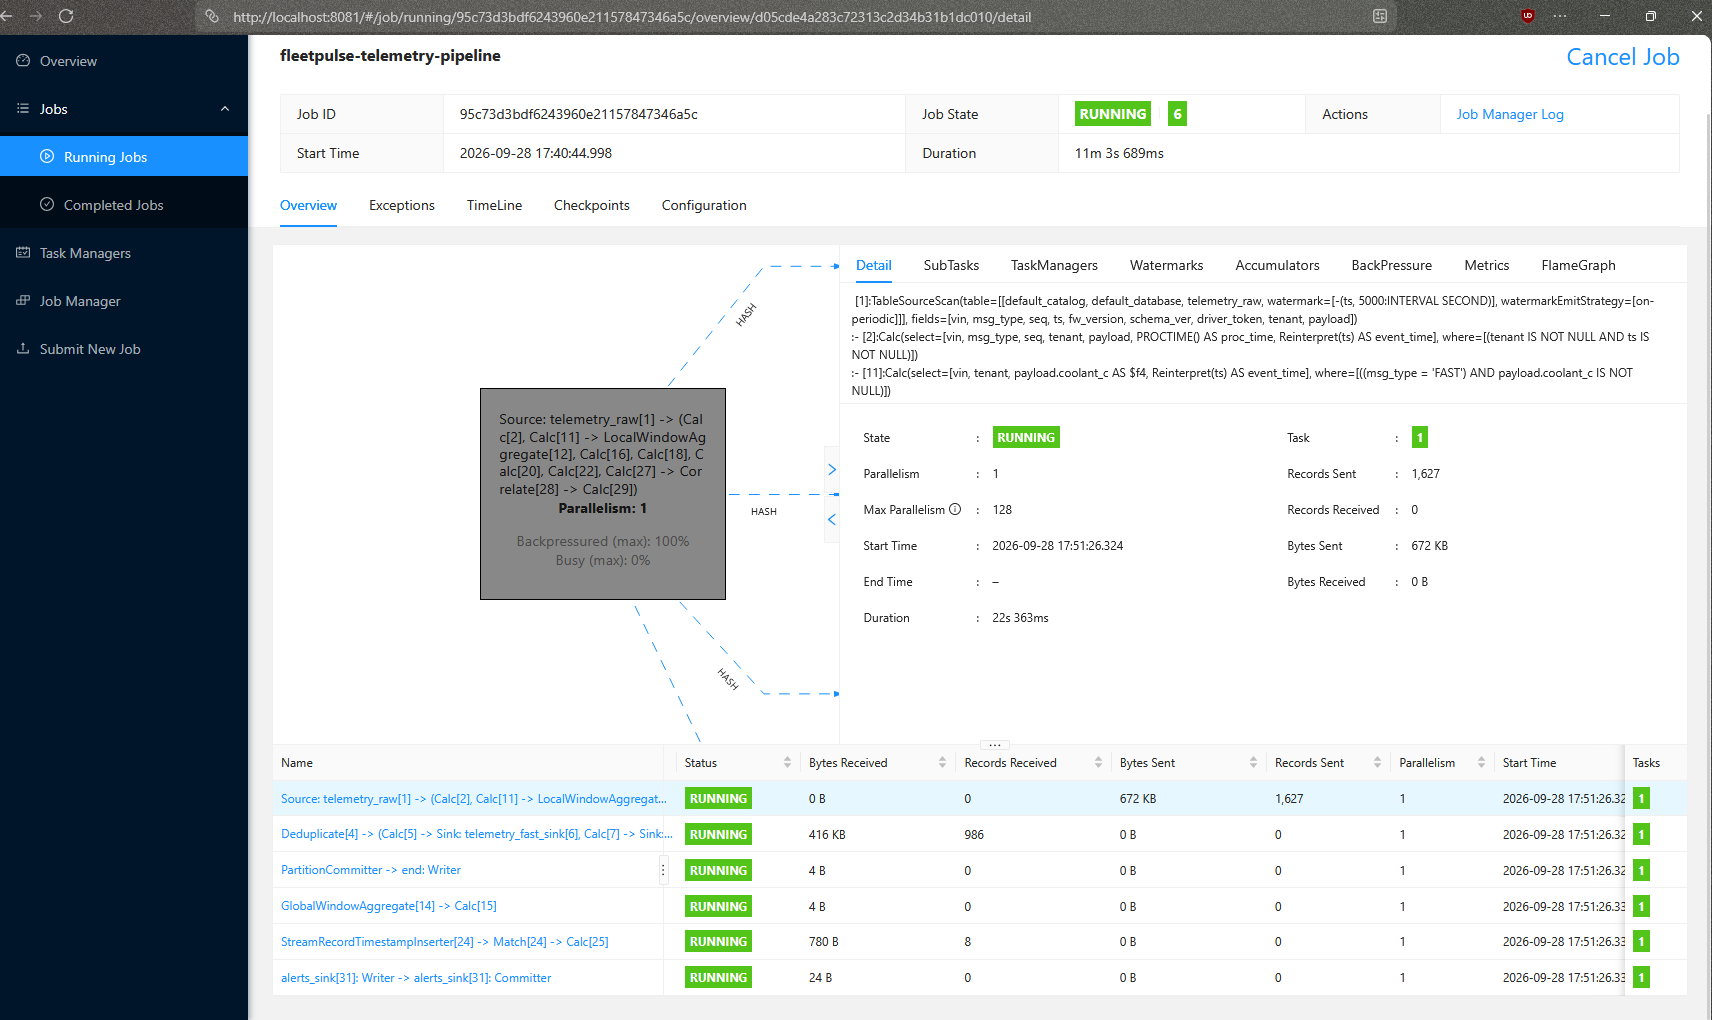
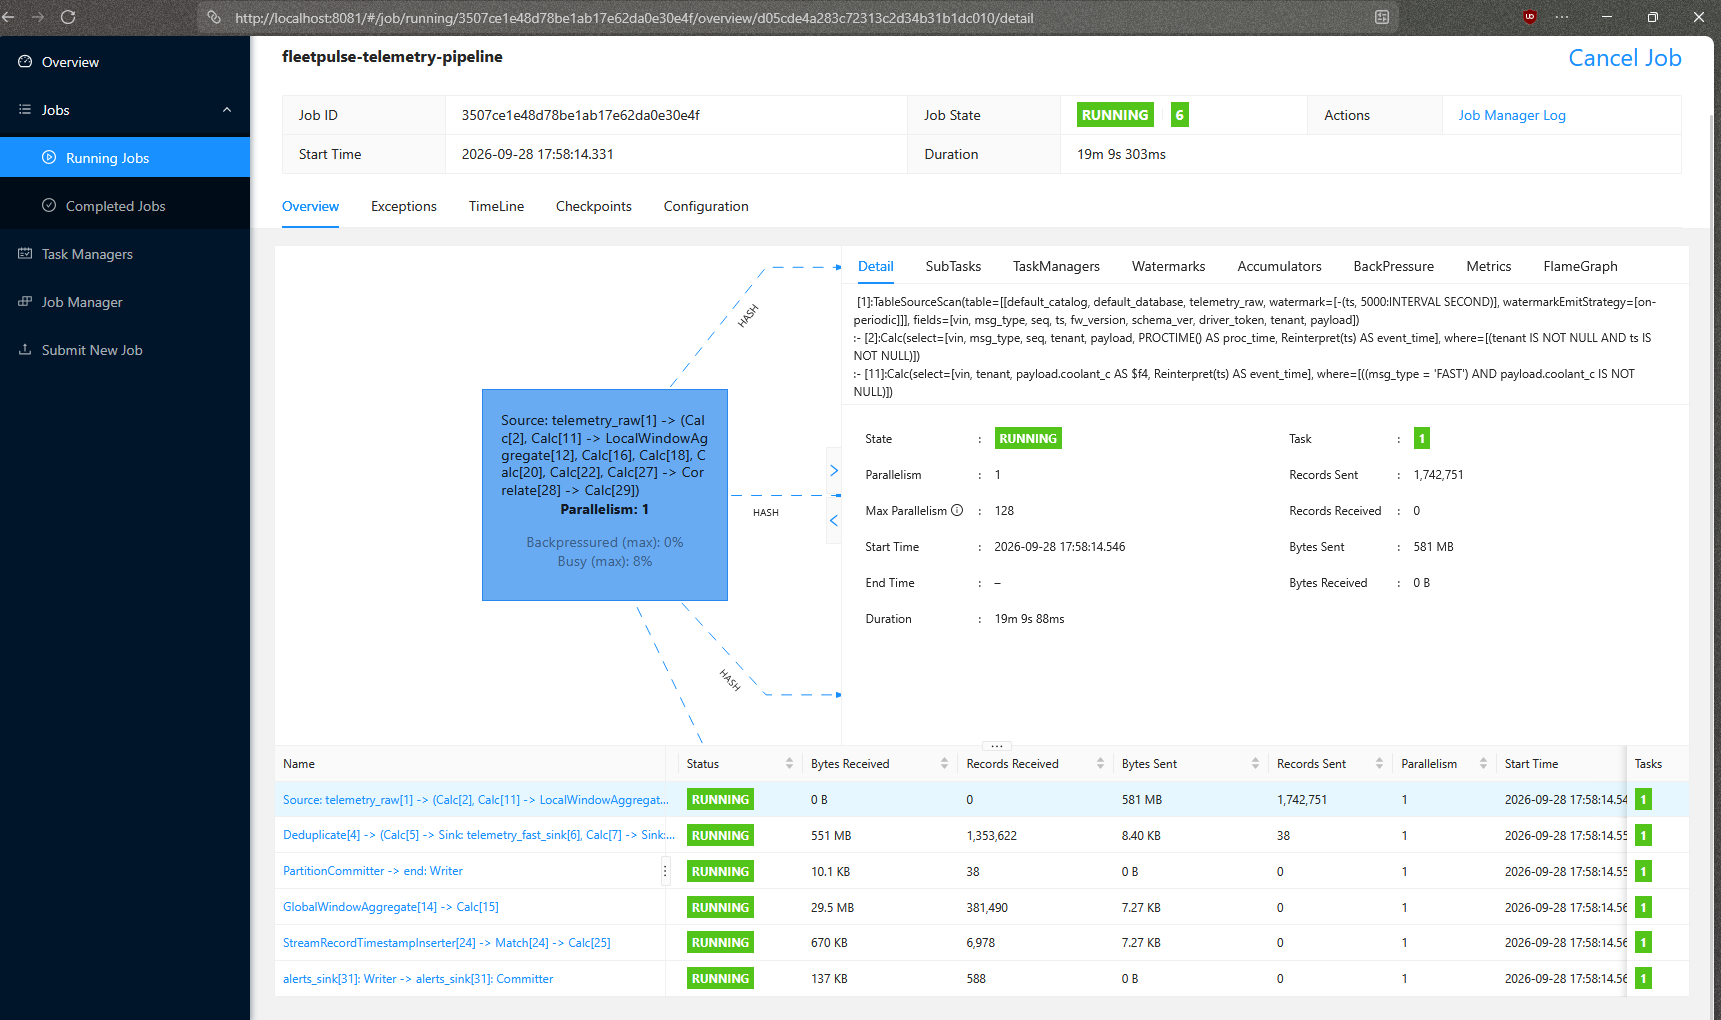
Replace evidence with clean running/checkpoints/self-healed screenshots
flink-job-running.png now shows the actual healthy steady state
(0% backpressure, 8% busy, 1.74M records) instead of the moment right
before the OOM. Added flink-checkpoints.png (39/39 completed) and
flink-job-self-healed.png, which documents a real transient event: one
task hit a checkpoint-ack RPC timeout under laptop resource
contention, and Flink's restart strategy recovered it automatically —
the checkpointing fix from the earlier OOM bug working as intended.

diff --git a/docs/evidence/stream/README.md b/docs/evidence/stream/README.md
@@ -6,9 +6,11 @@ Raw material for the solution document's stream-processing section (session 10).
 
 | File | Shows |
 |---|---|
-| `flink-job-graph.png` | Flink UI job graph of `fleetpulse-telemetry-pipeline`: one shared Kafka source fanning out (HASH) to the exact-dedup branch (→ Timescale `telemetry_fast`/`telemetry_health` JDBC sinks + the lake's `StreamingFileWriter` → `PartitionCommitter`), the cooling rule's two-phase HOP window (`LocalWindowAggregate` → `GlobalWindowAggregate`), and the misfire `MATCH_RECOGNIZE` (`Match`), all converging on `alerts_sink`; the stateless rules (lubrication, battery, MIL, brakes) forward straight to it. Taken while idle, hence 0% busy. |
-| `flink-job-running.png` | Same job under `make simulate RATE=2000` traffic, ~11 minutes in: RUNNING, 1,627+ records sent, sub-tasks all RUNNING. Also shows the Source box at **100% backpressured (max)** — this was the OOM in `flink-job-oom-restarting.png` about to happen (the TaskManager's 1 GB heap couldn't keep up and back-pressure was the visible symptom seconds before the crash), not a healthy steady state; see the note below. |
-| `flink-job-oom-restarting.png` | The job a few minutes later: `RESTARTING` (Flink's checkpoint-enabled default restart strategy trying to recover), the `Source` task in `FAILED`, everything else `CANCELED`. Kept as the record of the bug, not as "correct" evidence — see below. |
+| `flink-job-graph.png` | Job graph while idle: one shared Kafka source fanning out (HASH) to the exact-dedup branch (→ Timescale `telemetry_fast`/`telemetry_health` JDBC sinks + the lake's `StreamingFileWriter` → `PartitionCommitter`), the cooling rule's two-phase HOP window (`LocalWindowAggregate` → `GlobalWindowAggregate`), and the misfire `MATCH_RECOGNIZE` (`Match`), all converging on `alerts_sink`; the stateless rules (lubrication, battery, MIL, brakes) forward straight to it. 0% busy since nothing was flowing. |
+| `flink-job-running.png` | Same job, post-memory-fix, ~19 minutes into a `make simulate RATE=2000` run: RUNNING, 0% backpressured, 8% busy, 1,742,751 records sent — the healthy steady state the earlier OOM (below) never reached. |
+| `flink-checkpoints.png` | Checkpoints tab at the same point: 39/39 triggered checkpoints completed, 0 failed, 0 restored — no incident yet at this timestamp (one happened a few minutes later, see `flink-job-self-healed.png`). |
+| `flink-job-self-healed.png` | The same job ~5 minutes after that, shortly after one task hit a 10 s RPC timeout talking to the JobManager during a checkpoint (`AskTimeoutException`, most likely this laptop being loaded — Flink + Kafka + Postgres + Timescale + Mongo + Garage all running at once) and Flink auto-restored it from the last good checkpoint. All subtasks RUNNING again, counters reset to near-zero (their own "Start Time" jumped, the job's did not) — this is the checkpointing/restart fix from the OOM bug working exactly as intended, not a new problem. |
+| `flink-job-oom-restarting.png` | An earlier run, before the memory fix: `RESTARTING` forever, `Source` task `FAILED`, everything else `CANCELED` — the TaskManager had OOM'd and there was no TaskManager left to restart into. Kept as the record of that bug, not as "correct" evidence — see the fix below. |
 
 ## Measured results (2026-09-28, local laptop stack, parallelism 1)
 
@@ -31,4 +33,6 @@ Each of these killed or silently stalled the job at least once — see `docs/PRO
 4. Without checkpointing, the file sink never commits (files stuck as S3 multipart uploads) and any single bad record fails the job permanently.
 5. Hadoop S3A + Garage: bulk-deleting directory markers returns NoSuchKey → infinite retry, job stuck INITIALIZING. Fix: `fs.s3a.directory.marker.retention: keep`.
 6. Simulator restarted `seq` at 0 every run → ~40% of repeat-run traffic (352,358 of 896,505) dropped as duplicates by the gateway. Fix: per-run millisecond `seq` base.
-7. **TaskManager OOM'd under sustained traffic** (`flink-job-oom-restarting.png`): 1 GB process size (PLAN §3's original budget) left too little task heap once the cooling rule's HOP window (30 s size / 5 s slide → 6 overlapping windows per key) and the dedup operator's keyed state grew under real load — `flink-job-running.png`'s 100% source backpressure was this happening in real time, moments before the crash. The TaskManager disappearing entirely (`{"taskmanagers":0}`) then stuck the job in `RESTARTING` forever (`NoResourceAvailableException` — no slots to restart into). Fix: `taskmanager.memory.process.size: 2048m`. Verified with a full 10-minute sustained run afterward (numbers above) — TaskManager never dropped.
+7. **TaskManager OOM'd under sustained traffic** (`flink-job-oom-restarting.png`): 1 GB process size (PLAN §3's original budget) left too little task heap once the cooling rule's HOP window (30 s size / 5 s slide → 6 overlapping windows per key) and the dedup operator's keyed state grew under real load. The OOM took the TaskManager down entirely (`{"taskmanagers":0}`), which then stuck the job in `RESTARTING` forever (`NoResourceAvailableException` — no slots to restart into, since there was no TaskManager left to provide any). Fix: `taskmanager.memory.process.size: 2048m`. Verified with a full 10-minute sustained run afterward (numbers above) — TaskManager never dropped.
+
+**Not a bug, evidence recovery works:** a later run hit one `AskTimeoutException` (a subtask's checkpoint-acknowledgment RPC to the JobManager took >10s, most likely laptop resource contention — this stack is 8+ containers on one machine) that failed that task and 2 checkpoints. Flink's restart strategy (a side effect of enabling checkpointing for bug 4 above) restored it from the last good checkpoint automatically — the job never went down, no code change needed. See `flink-job-self-healed.png`.
